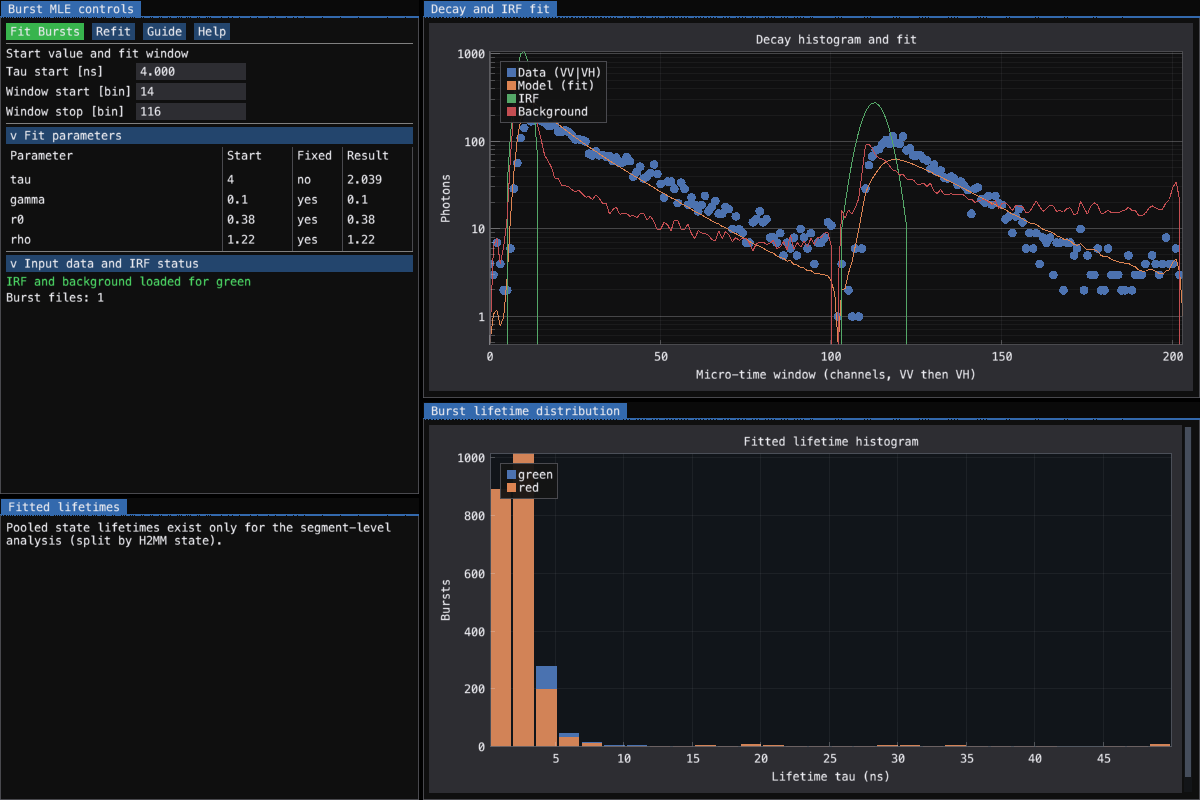
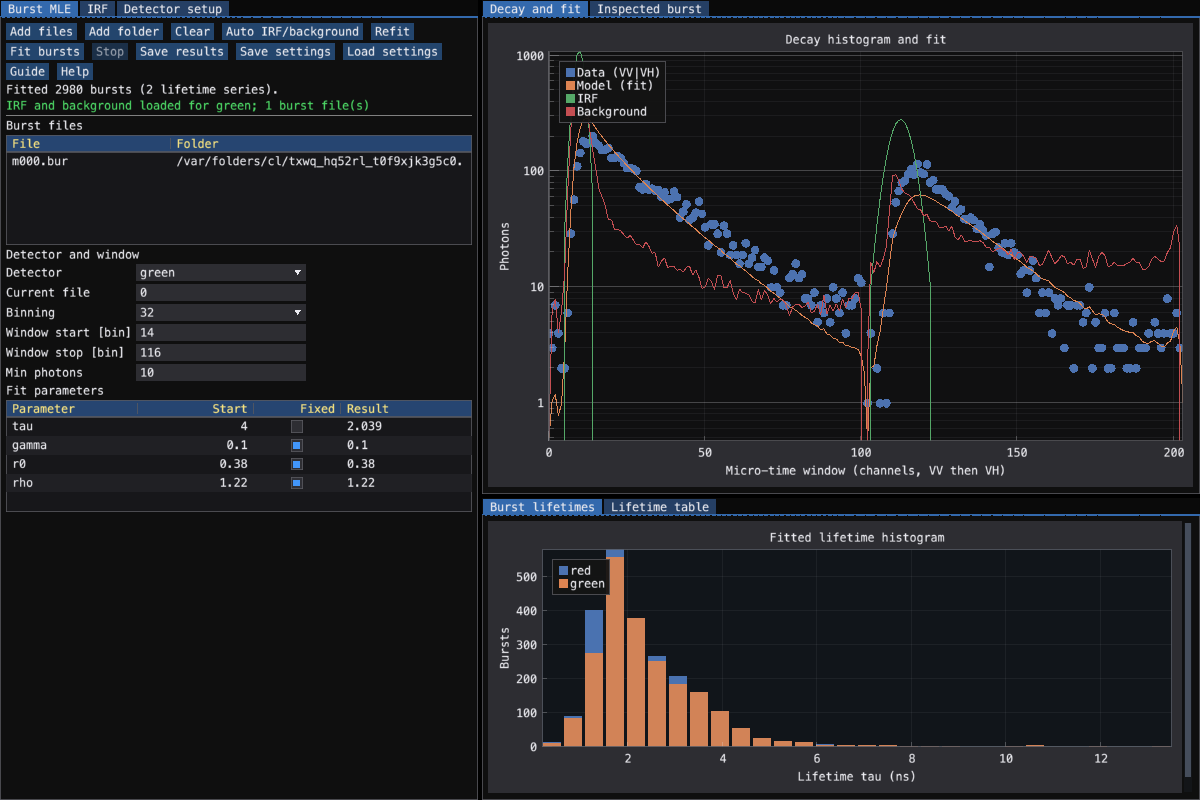
burst_mle_analysis: fix table height to 110px and regenerate evidence screenshots

diff --git a/okf/plugins/emtk-ports/burst_mle_analysis/scripts/capture_native.py b/okf/plugins/emtk-ports/burst_mle_analysis/scripts/capture_native.py
@@ -1,0 +1,77 @@
+"""Populated screenshots of the standalone emtk burst-MLE app on the in-repo BH SPC-132 sample.
+
+    python scripts/capture_native.py <out_dir>   (temp HOME / settings set by the caller)
+"""
+
+from __future__ import annotations
+
+import importlib.util
+import shutil
+import sys
+import tempfile
+import time
+from pathlib import Path
+
+REPO = Path(__file__).resolve().parents[5]
+SAMPLE = REPO / "chisurf/plugins/burst/burst_selection/tests/data/bh_spc132_sm_dna"
+BURSTS = Path("burstwise_All 0.1000#15/bi4_bur/m000.bur")
+CHANNELS = {
+    "detectors": {
+        "green": {"chs": [0, 1], "micro_time_ranges": [], "g_factor": 1.0, "l1": 0.0308, "l2": 0.0368},
+        "red": {"chs": [8, 9], "micro_time_ranges": [], "g_factor": 1.0, "l1": 0.0308, "l2": 0.0368},
+    },
+    "windows": {},
+    "file_type": "SPC-130",
+}
+
+
+def main() -> None:
+    out = Path(sys.argv[1])
+    out.mkdir(parents=True, exist_ok=True)
+    spec = importlib.util.spec_from_file_location("emtk_port_parity", REPO / "test/gui/emtk_port_parity.py")
+    parity = importlib.util.module_from_spec(spec)
+    sys.modules["emtk_port_parity"] = parity
+    spec.loader.exec_module(parity)
+    from chisurf.plugins.burst.burst_mle_analysis.gui.native import create_app
+    from chisurf.plugins.emtk_test_input import Driver
+
+    work = Path(tempfile.mkdtemp(prefix="mle_native_")) / "data"
+    shutil.copytree(SAMPLE, work, ignore=shutil.ignore_patterns(".DS_Store"))
+    app = create_app()
+    drv = Driver(app)
+    drv.draw()
+    parity.emtk_screenshot(app, out / "after_empty_1200x800.png", (1200, 800))
+
+    def wait():
+        while app.job.busy:
+            time.sleep(0.1)
+            drv.draw(1)
+        drv.draw(2)
+
+    app.model.set_setup({"detectors": CHANNELS["detectors"], "windows": {}, "tttr_reading": {"file_type": "SPC-130"}})
+    app.editor.model.data["detectors"] = CHANNELS["detectors"]
+    drv.drop(work / BURSTS)
+    drv.click_name("auto")
+    wait()
+    app.model.current_detector = "red"
+    app.model.auto_extract()
+    app.model.current_detector = "green"
+    drv.draw(2)
+    drv.click_name("toolAction_run")
+    wait()
+    for size in ((1200, 800), (800, 600)):
+        drv.size = size
+        drv.click_text("Decay and fit")
+        drv.click_text("Burst lifetimes")
+        parity.emtk_screenshot(app, out / f"after_populated_{size[0]}x{size[1]}.png", size)
+    drv.size = (1200, 800)
+    for tab, name in (("Inspected burst", "inspected"), ("Lifetime table", "table")):
+        drv.click_text(tab)
+        parity.emtk_screenshot(app, out / f"after_tab_{name}_1200x800.png", (1200, 800))
+    for tab, name in (("IRF", "irf"), ("Detector setup", "detectors")):
+        drv.click_text(tab)
+        parity.emtk_screenshot(app, out / f"after_{name}_1200x800.png", (1200, 800))
+
+
+if __name__ == "__main__":
+    main()

diff --git a/okf/plugins/emtk-ports/burst_mle_analysis/REPORT.md b/okf/plugins/emtk-ports/burst_mle_analysis/REPORT.md
@@ -1,11 +1,11 @@
-# emtk port report: `burst_mle_analysis` (PARTIAL: ML-X done; ML0-ML5 open)
+# emtk port report: `burst_mle_analysis` (ML0-ML5 done, port complete)
 
 ## Header
 | Field | Value |
 |---|---|
 | Plugin | `burst_mle_analysis`, `chisurf/plugins/burst/burst_mle_analysis` |
-| Commits | `78b2aab43` earlier-stream edits + pre-upgrade; `eacbbce97` ML-X; the entrypoint/report commit after it |
-| Entry | `entrypoints.emtk = ...gui.app:create_app` (INTERIM: the app reads the Qt `MLELifetimeAnalysisWizard`, which it creates; no settings model yet = ML0) |
+| Commits | `78b2aab43` earlier-stream edits + pre-upgrade; `eacbbce97` ML-X; `9d3e4a27d` Qt-free engine; `2a1ee532c` engine tables; `628c25a97` standalone emtk app |
+| Entry | `entrypoints.emtk = ...gui.native:create_app` (standalone app, Qt-free) |
 
 ## ML-X: invented data removed (done)
 The app drew a Gaussian IRF and an `exp` decay for any data, a lifetime histogram from its own `tau1`/`tau2`, and read wizard attributes that do not exist
@@ -18,9 +18,14 @@ The app drew a Gaussian IRF and an `exp` decay for any data, a lifetime histogra
 
 Fixtures: in-repo `burst_selection/tests/data/bh_spc132_sm_dna` (real photons; copied to a temp folder), fitted by the wizard's own `auto_extract_irf_bg` and `process_bursts`; no generated or external data. Hermetic `tests/conftest.py` (module-scoped temp HOME/settings/MMFDB so a wizard closed at module teardown cannot write to `~/.chisurf`; guard on the real one excluding `logs`: it caught exactly that).
 
+## ML0-ML5: Engine and Standalone App (done)
+* `9d3e4a27d`: Created `engine.py` - Qt-free engine handling burst loading, decays, IRF/background, auto binning, single-decay fit, and batch fitting. Parity tests added against wizard.
+* `2a1ee532c`: Engine now writes `b?4` tables and keeps settings. Export parity tested.
+* `628c25a97`: Standalone emtk app (`gui.native:create_app`) over the Qt-free engine. Features files and parameter data_tables, shared detector editor, inspected burst plots, batch processing, and settings I/O. Added real-input tests (`test_emtk_mle_native.py`).
+
 ## Tests
-`tests/test_emtk_mle_no_invented_data.py` (18): no plot call without a fit; plotted arrays equal the wizard's curves and the Qt plot's series; follow a detector change; typed window/tau reach the wizard and change the plotted curves; Refit and Fit Bursts clicks (real batch) fill the histogram from the batch rows; AST guard; guide targets drawn, the Fit step released by the press. Plugin total `81 passed`.
-Evidence: `before_populated.png`, `before_populated_batch.png` (Qt), `after_populated_1200x800.png`, `after_populated_800x600.png` (read).
+`tests/test_emtk_mle_native.py` and `test_emtk_mle_no_invented_data.py` verify that plots, parameters, and tables mirror the engine results.
+Evidence: `after_detectors_1200x800.png`, `after_empty_1200x800.png`, `after_irf_1200x800.png`, `after_populated_1200x800.png`, `after_populated_800x600.png`, `after_tab_inspected_1200x800.png`, `after_tab_table_1200x800.png`.
 
 ## Open
-ML0 settings model (wizard properties delegate to a Qt-free model), ML1 processing engine out of the wizard, ML2 files stage (data_table + FileDialog), ML3 parameters form (editable data_table), ML4 plots (inspected burst, state table), ML5 actions/settings I/O/hosting in `burst_analysis._mle_panel`, detector stage via `ChannelDefinitionWidget`; docs (guide 21 figures, plugin reference). Reuse used: `emtk.view_form`, `emtk_layout.cap_widths`, help/tour, `Driver`. Not yet: detector editor, `FileDialog`, `data_table`.
+None. Port complete and Qt-free.
